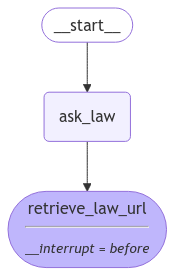
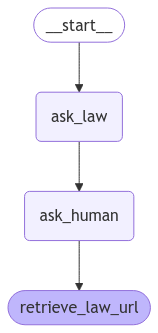
feat: further implement interrupt

Changed region(s): [[0.0253, 0.0, 0.962, 0.9855], [0.7848, 0.058, 0.8101, 0.087]]

diff --git a/importer/frontend/src/routes/+page.svelte b/importer/frontend/src/routes/+page.svelte
@@ -58,6 +58,46 @@
     {#each messages as message}
       <div class="message" class:own={message.isOwn}>{message.content}</div>
     {/each}
+
+    <div class="self-start">
+      <button
+        on:click={() => {
+          input = 'Ja';
+          handleSubmit();
+        }}
+        class="inline-flex cursor-pointer items-center rounded-full border border-blue-600 bg-white px-4 py-1 text-blue-600 hover:bg-blue-600 hover:text-white"
+        type="button"
+        ><svg xmlns="http://www.w3.org/2000/svg" class="mr-1 h-4 w-4" viewBox="0 0 24 24"
+          ><path
+            fill="none"
+            stroke="currentColor"
+            stroke-linecap="round"
+            stroke-linejoin="round"
+            stroke-width="2"
+            d="m5 12l5 5L20 7"
+          /></svg
+        > Ja</button
+      >
+
+      <button
+        on:click={() => {
+          input = 'Nee';
+          handleSubmit();
+        }}
+        class="inline-flex cursor-pointer items-center rounded-full border border-blue-600 bg-white px-4 py-1 text-blue-600 hover:bg-blue-600 hover:text-white"
+        type="button"
+        ><svg xmlns="http://www.w3.org/2000/svg" class="mr-1 h-4 w-4" viewBox="0 0 24 24"
+          ><path
+            fill="none"
+            stroke="currentColor"
+            stroke-linecap="round"
+            stroke-linejoin="round"
+            stroke-width="2"
+            d="M18 6L6 18M6 6l12 12"
+          /></svg
+        > Nee</button
+      >
+    </div>
   </div>
 
   <form class="mt-auto flex" on:submit|preventDefault={handleSubmit}>

diff --git a/importer/backend/main.py b/importer/backend/main.py
@@ -12,8 +12,7 @@ import pprint
 from fastapi import FastAPI, WebSocket, WebSocketDisconnect
 from fastapi.responses import FileResponse
 import uvicorn
-
-# import uuid
+import uuid
 
 # Set up the state
 from langgraph.graph import MessagesState, START
@@ -39,15 +38,26 @@ class State(TypedDict):
 workflow = StateGraph(state_schema=State)
 
 
-def ask_law(state: State) -> Dict:
+def ask_law(state: State, config: Dict) -> Dict:
     print("----> ask_law")
+
+    thread_id = config["configurable"]["thread_id"]
 
     # Ask the user for the law name
     msg = "Wat is de naam van de wet?"
     asyncio.get_event_loop().create_task(
-        manager.broadcast(msg)
-    )  # TODO: do not broadcast to all clients, but only the one from the config
+        manager.send_message(msg, thread_id)
+    )
     return {"messages": [AIMessage(msg)]}  # Note: we reset the messages
+
+
+def ask_human(state: State) -> Dict:
+    print("----> ask_human")
+
+    location = interrupt("Please provide your location:")
+    print("----> resumed:", location)
+    state["messages"].append(HumanMessage(location))
+    return {"messages": state["messages"]}
 
 
 def retrieve_law_url(state: State) -> Dict:
@@ -57,11 +67,13 @@ def retrieve_law_url(state: State) -> Dict:
 
 # Add nodes
 workflow.add_node("ask_law", ask_law)
+workflow.add_node("ask_human", ask_human)
 workflow.add_node("retrieve_law_url", retrieve_law_url)
 
 # Add edges
 workflow.set_entry_point("ask_law")
-workflow.add_edge("ask_law", "retrieve_law_url")
+workflow.add_edge("ask_law", "ask_human")
+workflow.add_edge("ask_human", "retrieve_law_url")
 
 
 # Initialize memory to persist state between graph runs
@@ -70,12 +82,10 @@ checkpointer = MemorySaver()
 # Compile the graph
 graph = workflow.compile(
     checkpointer,
-    interrupt_before=[
-        "retrieve_law_url", # IMPROVE: use interrupt_after instead
-    ],
+    # interrupt_before=[
+    #     "retrieve_law_url", # IMPROVE: use interrupt_after instead?
+    # ],
 )
-
-config = {"configurable": {"thread_id": "1"}}  # IMPROVE: thread_id not hardcoded
 
 # Initialize a FastAPI web server
 app = FastAPI()
@@ -88,22 +98,28 @@ async def get():
 
 class ConnectionManager:
     def __init__(self):
-        self.active_connections: List[WebSocket] = []
+        self.active_connections: Dict[uuid.UUID, WebSocket] = {}
 
     async def connect(self, websocket: WebSocket):
         await websocket.accept()
-        # Generate a thread ID
-        # thread_id = str(uuid.uuid4())
-        self.active_connections.append(websocket)
-        graph.invoke({"messages": []}, config)
+        thread_id = uuid.uuid4()
+        self.active_connections[thread_id] = websocket
 
-    def disconnect(self, websocket: WebSocket):
-        self.active_connections.remove(websocket)
+        # Invoke the graph
+        graph.invoke({"messages": []}, {"configurable": {"thread_id": thread_id}})
+
+        return thread_id
+
+    def disconnect(self, thread_id: uuid.UUID):
+        if thread_id in self.active_connections:
+            del self.active_connections[thread_id]
 
     async def broadcast(self, message: str):
-        for connection in self.active_connections:
-            print("--> sending message")
-            await connection.send_text(message)
+        for websocket in self.active_connections.values():
+            await websocket.send_text(message)
+
+    async def send_message(self, message: str, thread_id: uuid.UUID):
+        await self.active_connections[thread_id].send_text(message)
 
 
 manager = ConnectionManager()
@@ -111,7 +127,8 @@ manager = ConnectionManager()
 
 @app.websocket("/ws")
 async def websocket_endpoint(websocket: WebSocket):
-    await manager.connect(websocket)
+    thread_id = await manager.connect(websocket)
+
     try:
         while True:
             user_input = await websocket.receive_text()
@@ -121,8 +138,8 @@ async def websocket_endpoint(websocket: WebSocket):
 
             for event in graph.stream(
                 # {"messages": [HumanMessage(user_input)]},
-                Command(resume={"data": user_input}),
-                config,
+                Command(resume=user_input),
+                {"configurable": {"thread_id": thread_id}},
                 stream_mode="values",
             ):
                 # In case of an AI message, send it back to the client
@@ -130,12 +147,15 @@ async def websocket_endpoint(websocket: WebSocket):
                 msg = event["messages"][-1]
                 if isinstance(msg, AIMessage):
                     await websocket.send_text(msg.content)
+
     except WebSocketDisconnect:
-        manager.disconnect(websocket)
+        manager.disconnect(thread_id)
+
     except Exception as e:
         print(f"Error: {pprint.pformat(e)}")
+
     finally:
-        manager.disconnect(websocket)
+        manager.disconnect(thread_id)
 
 
 def main():
